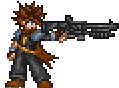
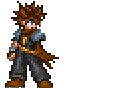
Updating ShooterTEST
player can move is arm
the bullet go in the mouse Direction
the bullet does not rotate for the moment

Changed region(s): [[0.3277, 0.1591, 1.0, 0.5]]

diff --git a/ShooterTEST/ShooterTEST/Sprites/Weapon.cs b/ShooterTEST/ShooterTEST/Sprites/Weapon.cs
@@ -1,0 +1,99 @@
+using Microsoft.Xna.Framework;
+using Microsoft.Xna.Framework.Input;
+using Microsoft.Xna.Framework.Graphics;
+using System;
+using System.Collections.Generic;
+using System.Linq;
+using System.Text;
+using System.Threading.Tasks;
+
+
+namespace ShooterTEST.Sprites
+{
+    public class Weapon : Sprite
+    {
+        public Bullet Bullet;
+        bool _jumping;
+        float _jumpVelocity;
+        Game1 _game;
+        float _shootingTime = 0;
+
+
+        public Weapon(Texture2D texture, Game1 game) : base(texture)
+        {
+            _game = game;
+            Origin = new Vector2(6, 30);
+        }
+
+        public override void Update(GameTime gameTime, List<Sprite> sprites)
+        {
+            _previousKey = _currentKey;
+            _currentKey = Keyboard.GetState();
+            _currentMouse = Mouse.GetState();
+
+            distance.X = _currentMouse.X - Position.X;
+            distance.Y = _currentMouse.Y - Position.Y;
+
+            Direction = new Vector2((float)Math.Cos(_rotation), (float)Math.Sin(_rotation));
+
+            _rotation = (float)Math.Atan2(distance.Y, distance.X);
+
+            if (_currentKey.IsKeyDown(Keys.D) || _currentKey.IsKeyDown(Keys.Right))
+            {
+                Position.X += LinearVelocity;
+            }
+            if (_currentKey.IsKeyDown(Keys.Q) || _currentKey.IsKeyDown(Keys.Left))
+            {
+                Position.X -= LinearVelocity;
+            }
+
+            if (_jumping)
+            {
+                Position.Y += _jumpVelocity; //Making it go up
+                _jumpVelocity += 1;
+                if (Position.Y >= _game.ScreenHeight)
+                {
+                    Position.Y = _game.ScreenHeight; //Then set it on the ground
+                    _jumping = false;
+                }
+            }
+            else
+            {
+                if (_currentKey.IsKeyDown(Keys.Space))
+                {
+                    _jumping = true;
+                    _jumpVelocity = -25; //Give it upward thrust
+                }
+            }
+
+            Position.X = MathHelper.Clamp(Position.X, 28, _game.ScreenWidth - 28);
+
+            Position.Y = MathHelper.Clamp(Position.Y, 63, _game.ScreenHeight - 63);
+
+            //shooting is here
+            if (_currentMouse.LeftButton == ButtonState.Pressed)
+            {
+                if (_shootingTime >= 15)
+                {
+                    AddBullet(sprites);
+                    _shootingTime = 0;
+                }
+                else
+                {
+                    _shootingTime += 1;
+                }
+            }
+        }
+        private void AddBullet(List<Sprite> sprites)
+        {
+            var bullet = Bullet.Clone() as Bullet;
+            bullet.Direction = this.Direction;
+            bullet.Position = this.Position;
+            bullet.LinearVelocity = this.LinearVelocity * 2;
+            bullet.LifeSpan = 2f;
+            bullet.Parent = this;
+
+            sprites.Add(bullet);
+        }
+    }
+}

diff --git a/ShooterTEST/ShooterTEST/Sprites/player.cs b/ShooterTEST/ShooterTEST/Sprites/player.cs
@@ -1,0 +1,67 @@
+using Microsoft.Xna.Framework;
+using Microsoft.Xna.Framework.Input;
+using Microsoft.Xna.Framework.Graphics;
+using System;
+using System.Collections.Generic;
+using System.Linq;
+using System.Text;
+using System.Threading.Tasks;
+
+
+namespace ShooterTEST.Sprites
+{
+    public class Player : Sprite
+    {
+        public Bullet Bullet;
+        bool _jumping;
+        float _jumpVelocity;
+        Game1 _game;
+        public Player(Texture2D texture, Game1 game) : base(texture)
+        {
+            _game = game;
+            Origin = new Vector2(45, 37);
+        }
+
+        public override void Update(GameTime gameTime, List<Sprite> sprites)
+        {
+            _previousKey = _currentKey;
+            _currentKey = Keyboard.GetState();
+            _currentMouse = Mouse.GetState();
+
+            distance.X = _currentMouse.X - Position.X;
+            distance.Y = _currentMouse.Y - Position.Y;
+
+            Direction = new Vector2((float)Math.Cos(_rotation), (float)Math.Sin(_rotation));
+
+            if (_currentKey.IsKeyDown(Keys.D) || _currentKey.IsKeyDown(Keys.Right))
+            {
+                Position.X += LinearVelocity;
+            }
+            if (_currentKey.IsKeyDown(Keys.Q) || _currentKey.IsKeyDown(Keys.Left))
+            {
+                Position.X -= LinearVelocity;
+            }
+
+            if (_jumping)
+            {
+                Position.Y += _jumpVelocity; //Making it go up
+                _jumpVelocity += 1;
+                if (Position.Y >= _game.ScreenHeight)
+                {
+                    Position.Y = _game.ScreenHeight; //Then set it on the ground
+                    _jumping = false;
+                }
+            }
+            else
+            {
+                if (_currentKey.IsKeyDown(Keys.Space))
+                {
+                    _jumping = true;
+                    _jumpVelocity = -25; //Give it upward thrust
+                }
+            }
+            Position.X = MathHelper.Clamp(Position.X, 28, _game.ScreenWidth - 28);
+            Position.Y = MathHelper.Clamp(Position.Y, 63, _game.ScreenHeight - 63);
+        }
+    }
+}

diff --git a/ShooterTEST/ShooterTEST/Game1.cs b/ShooterTEST/ShooterTEST/Game1.cs
@@ -11,8 +11,10 @@ namespace ShooterTEST
     {
         GraphicsDeviceManager graphics;
         SpriteBatch spriteBatch;
-
         private List<Sprite> _sprites;
+
+        public float ScreenHeight { get => GraphicsDevice.Viewport.Height; }
+        public float ScreenWidth { get => GraphicsDevice.Viewport.Width; }
 
         public Game1()
         {
@@ -29,13 +31,18 @@ namespace ShooterTEST
         protected override void LoadContent()
         {
             spriteBatch = new SpriteBatch(GraphicsDevice);
-            var shipTexture = Content.Load<Texture2D>("caracter");
+            var weaponTexture = Content.Load<Texture2D>("caracter_arm");
+            var playerTexture = Content.Load<Texture2D>("caracter");
             _sprites = new List<Sprite>()
             {
-                new Ship(shipTexture)
+                new Weapon(weaponTexture, this)
                 {
                     Position = new Vector2(100, 100),
                     Bullet = new Bullet(Content.Load<Texture2D>("bullet")),
+                },
+                new Player(playerTexture, this)
+                {
+                    Position = new Vector2(100, 100)
                 }
             };
         }

diff --git a/ShooterTEST/ShooterTEST/Sprites/Bullet.cs b/ShooterTEST/ShooterTEST/Sprites/Bullet.cs
@@ -10,10 +10,17 @@ namespace ShooterTEST.Sprites
 {
     public class Bullet : Sprite
     {
+        Weapon _context;
         private float _timer;
         public Bullet(Texture2D Texture) : base(Texture)
         {
+            Origin = new Vector2(1, 12);
+        }
 
+        public Bullet(Texture2D Texture, Weapon context) : base(Texture)
+        {
+            _context = context;
+            Origin = new Vector2(1, 12);
         }
         public override void Update(GameTime gameTime, List<Sprite> sprites)
         {
@@ -23,5 +30,6 @@ namespace ShooterTEST.Sprites
 
             Position += Direction * LinearVelocity;
         }
+        //public BulletRotation{ _context.rotation; }
     }
 }

diff --git a/Platformer/Platformer/Jumper.cs b/Platformer/Platformer/Jumper.cs
@@ -37,7 +37,7 @@ namespace Platformer
 
         private void SimulateFriction()
         {
-            if (IsOnFirmGround()) { Movement -= Movement * Vector2.One * .08f; }
+            if (IsOnFirmGround()) { Movement -= Movement * Vector2.One * .1f; }
             else { Movement -= Movement * Vector2.One * .02f; }
         }
 

diff --git a/ShooterTEST/ShooterTEST/Sprites/Sprite.cs b/ShooterTEST/ShooterTEST/Sprites/Sprite.cs
@@ -20,6 +20,8 @@ namespace ShooterTEST.Sprites
         public Vector2 Position;
         public Vector2 Origin;
 
+        public Vector2 distance;
+
         public Vector2 Direction;
         public float RotationVelocity = 3f;
         public float LinearVelocity = 4f;
